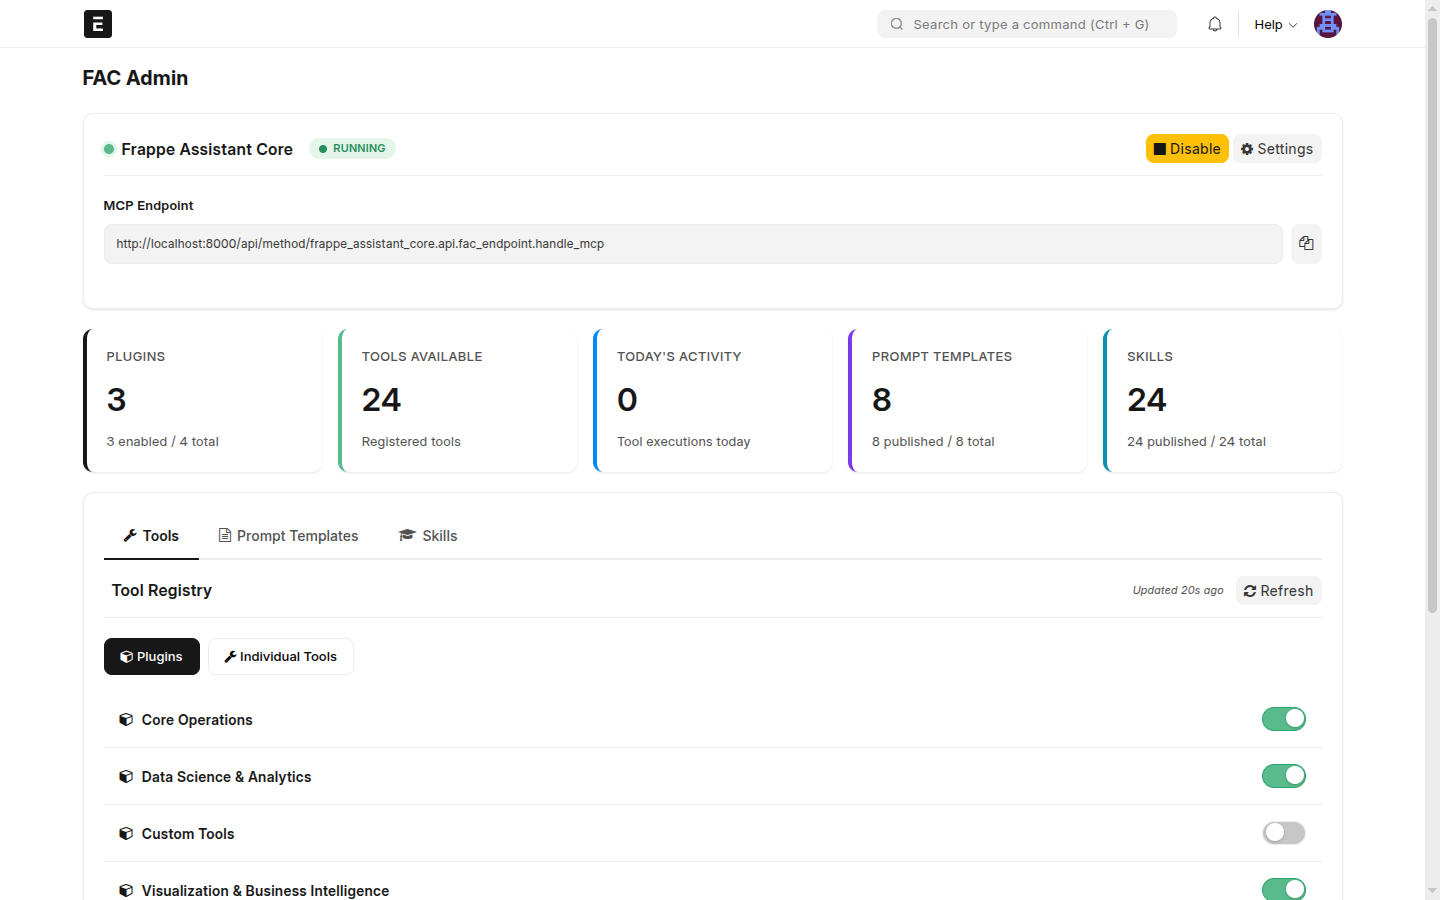
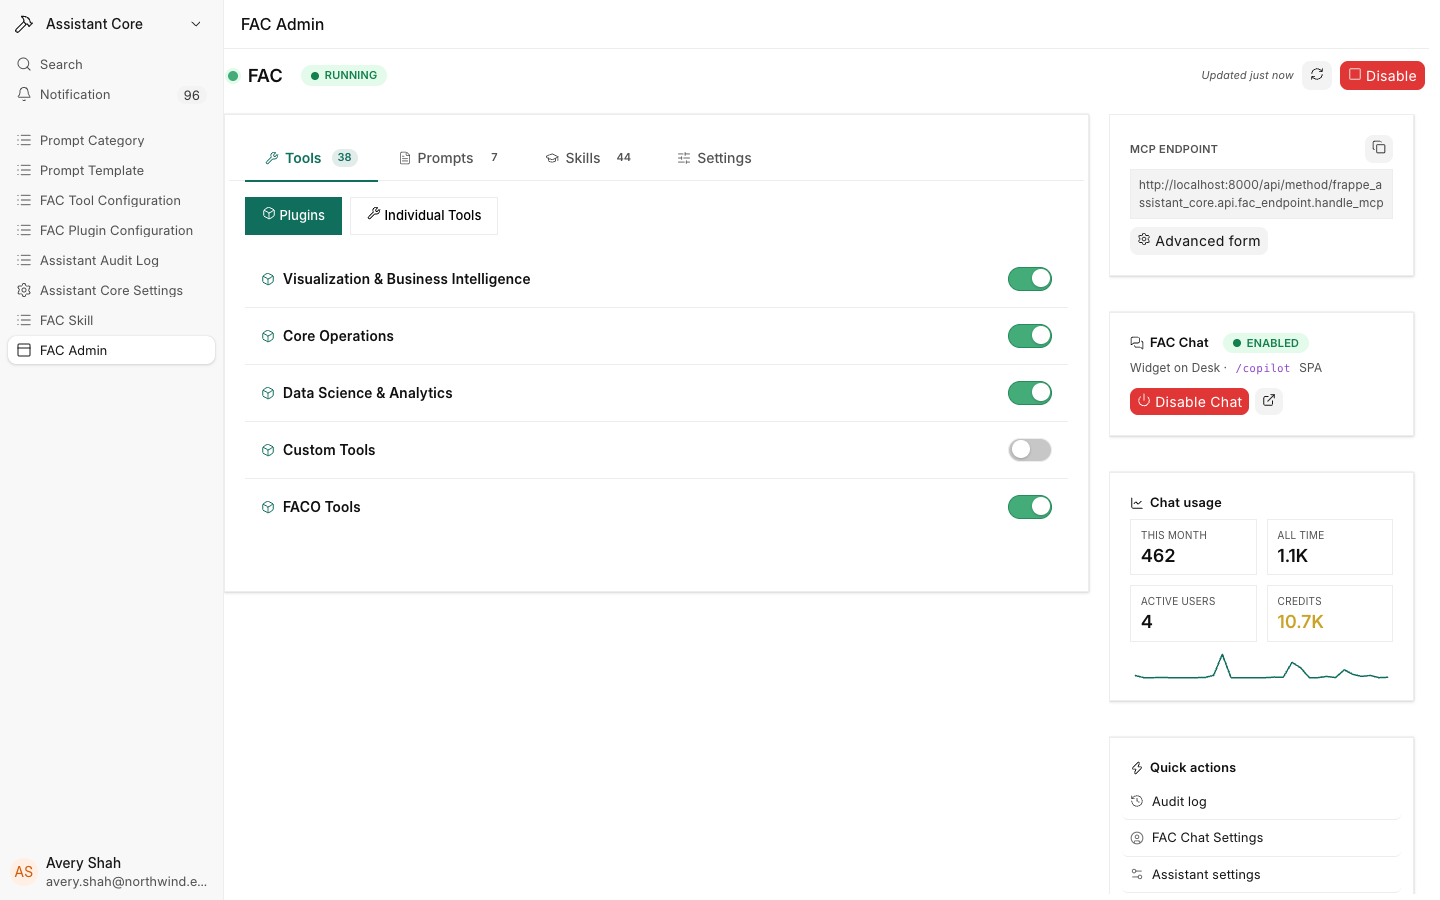
docs(fac-admin): describe the current page and its other frappe apps group
The page lost its stat cards and bottom activity feed; it now has a status strip and a
right-hand column with the MCP endpoint, FAC Chat, Chat usage, Quick actions and Recent
activity. Fresh screenshots of every tab and settings group, and the v16 /desk path.

diff --git a/docs/guides/fac-admin.md b/docs/guides/fac-admin.md
@@ -7,7 +7,7 @@
 Think of it as the **home base** for FAC. Almost every day-to-day admin task starts here:
 
 - Turn the MCP server on or off, and copy the endpoint URL for your client
-- See at a glance how much is enabled and how busy the assistant has been
+- See whether FAC Chat is on and how much it is being used
 - Enable/disable tools and control which roles can use them
 - Publish and manage prompt templates and skills
 - Watch recent tool activity and jump to the full audit log
@@ -23,7 +23,7 @@ FAC Admin is available to users with the **System Manager** or **Assistant Admin
 
 Three ways to reach it:
 
-- Go straight to **`/app/fac-admin`** in your browser.
+- Go straight to **`/app/fac-admin`** in your browser. On Frappe v16, Desk lives under `/desk`, so the address is **`/desk/fac-admin`** (`/app/fac-admin` redirects there).
 - Use the desk **awesomebar** (`Ctrl/Cmd + G`) and type *"FAC Admin"*.
 - From the FAC **workspace**, click the **FAC Admin** shortcut.
 
@@ -31,43 +31,37 @@ Three ways to reach it:
 
 ## A tour of the page
 
-![The FAC Admin page: status bar, MCP endpoint, stat cards, tabs, and recent activity](/img/tool-management/01-admin-overview.png)
+![The FAC Admin page: the status strip, the tabbed registry on the left, and the operations column on the right](/img/fac-admin/overview.png)
 
-The page is laid out top to bottom:
+The page has a status strip across the top and two columns below it: the **registry** (tabs for tools, prompts, skills and settings) on the left, and an **operations** column on the right.
 
-### 1. Status bar
+### 1. Status strip
 
-The top strip shows the FAC server state — **Running** or **Stopped** — with a button to toggle it. Disabling the server stops *all* MCP clients from reaching FAC until you re-enable it, so you're asked to confirm. The **Advanced form** button in the sidebar opens the raw `Assistant Core Settings` form; day-to-day changes belong on the **Settings** tab.
+The strip shows the FAC server state, **Running** or **Stopped**, with a **Disable** (or **Enable**) button. Disabling the server stops *all* MCP clients from reaching FAC until you enable it again, so you are asked to confirm. Next to it, *Updated just now* tells you how fresh the page is, and the refresh button reloads every card.
 
-### 2. MCP endpoint
+### 2. The registry tabs
 
-Your server's MCP URL, with a copy button:
+The left column holds four tabs. **Tools**, **Prompts** and **Skills** show a count in their label, so you can see at a glance how many of each the site has. They are described [below](#the-four-tabs).
+
+### 3. The operations column
+
+![The operations column: MCP endpoint, FAC Chat, Chat usage and Quick actions](/img/fac-admin/sidebar.png)
+
+| Card | What it does |
+|------|-------------|
+| **MCP endpoint** | Your server's MCP URL with a copy button, plus **Advanced form**, which opens the raw `Assistant Core Settings` form. Day-to-day changes belong on the **Settings** tab. |
+| **FAC Chat** | Whether FAC Chat is enabled, where it appears (the widget on Desk and the `/copilot` page), a button to enable or disable it, and a link that opens FAC Chat. |
+| **Chat usage** | Messages this month and all time, active users, and credits used, with a 30-day sparkline of daily messages. |
+| **Quick actions** | Links to the **Audit log**, **FAC Chat Settings**, **Assistant settings** and **Open Copilot**. |
+| **Recent activity** | The last few tool calls (tool, user, status, time). Every tool execution is journaled in the [Assistant Audit Log](/api/reference), your record of what the assistant did and for whom. |
+
+The MCP endpoint looks like this:
 
 ```
 https://your-site/api/method/frappe_assistant_core.api.fac_endpoint.handle_mcp
 ```
 
-This is the URL you paste into an MCP client (Claude Desktop, the FAC Chat connector, etc.). See [Quick Start](/getting-started/quick-start) and [OAuth Setup](/getting-started/oauth/quick-start) for wiring up a client.
-
-### 3. Stat cards
-
-Five at-a-glance counters:
-
-| Card | Shows |
-|------|-------|
-| **Plugins** | Enabled vs total plugins |
-| **Tools Available** | Registered tools exposed to clients |
-| **Today's Activity** | Tool executions so far today |
-| **Prompt Templates** | Published vs total templates |
-| **Skills** | Published vs total skills |
-
-### 4. Tabs
-
-The working area has four tabs — **Tools**, **Prompt Templates**, **Skills**, and **Settings** — described below.
-
-### 5. Recent Activity
-
-A live feed of the last few tool calls (action, tool, user, status, time), with **View full log** linking to the [Assistant Audit Log](/api/reference). Every tool execution is journaled here, which is your record of what the assistant did and for whom.
+This is the URL you paste into an MCP client (Claude Desktop, ChatGPT, Cursor and others). See [Quick Start](/getting-started/quick-start) and [OAuth Setup](/getting-started/oauth/quick-start) for wiring up a client.
 
 ---
 
@@ -78,9 +72,12 @@ A live feed of the last few tool calls (action, tool, user, status, time), with 
 Controls which tools the MCP server exposes and who can use them. It has two views:
 
 - **Plugins** — a simple on/off switch per plugin (turning one off hides all of its tools).
-- **Individual Tools** — per-tool enable/disable, category badges, **bulk actions**, and **role-based access** (restrict a tool to specific roles).
 
-![The Tools tab in Individual Tools view](/img/tool-management/02-individual-tools.png)
+  ![The Tools tab in Plugins view](/img/fac-admin/tab-tools.png)
+
+- **Individual Tools** — per-tool enable/disable, search, category and plugin filters, a badge for what each tool can do (**Read only**, **Write**, **Privileged**), **bulk actions** (*Enable matching*, *Disable matching*), and **role-based access** (restrict a tool to specific roles).
+
+  ![The Tools tab in Individual Tools view](/img/fac-admin/tab-tools-individual.png)
 
 ➡ Full walkthrough, including restricting a tool to a role and least-privilege setups: **[Tool Management](/guides/tool-management)**. Plugin-level control: **[Plugin Management](/guides/plugin-management)**.
 
@@ -106,16 +103,21 @@ Manage skills — structured guidance that teaches the assistant how to use a to
 
 Every FAC setting in one place, grouped by what it controls. Pick a group on the left, change what you need, and click **Save**. The group's URL (`?tab=settings&group=oauth`) can be bookmarked or shared.
 
+![The Settings tab, Chat & Widget group](/img/fac-admin/settings-chat-widget.png)
+
+➡ Step by step, with a screenshot of each group: **[Guide me: change a FAC setting](/guide-me/fac-admin-settings)**.
+
 | Group | What it holds |
 |-------|---------------|
 | **Chat & Widget** | Context size, page-content sharing, browser diagnostics, and chat message retention |
+| **Other Frappe apps** | Which standalone Frappe apps (Helpdesk, Insights, CRM…) show the FACO widget, and **FAC Bot in Raven**. See [Use the widget in other Frappe apps](/fac-chat/other-apps) |
 | **MCP Server** | The MCP and OAuth discovery URLs, the server name and protocol, and how skills are offered |
 | **OAuth** | Dynamic client registration, allowed public client origins, and discovery metadata. Frappe v15 only: on v16, FAC reads OAuth from Frappe's own **OAuth Settings**, so the group is not shown |
 | **Security** | Code-execution limits and audit-log retention |
 | **OCR** | The OCR backend and its PaddleOCR or Ollama settings |
 | **FAC Cloud connection** | This site's FAC Cloud registration (read-only) |
 
-Saving runs the same checks as the settings form, so an invalid value is rejected with the same message. Only a **System Manager** can view and save these settings; other admins see a note saying so. The MCP server switch and the FAC Chat switch stay where they were — in the status bar and the FAC Chat card.
+Saving runs the same checks as the settings form, so an invalid value is rejected with the same message. Only a **System Manager** can view and save these settings; other admins see a note saying so. The MCP server switch and the FAC Chat switch stay where they were — in the status strip and the FAC Chat card.
 
 ## Where to go next
 
